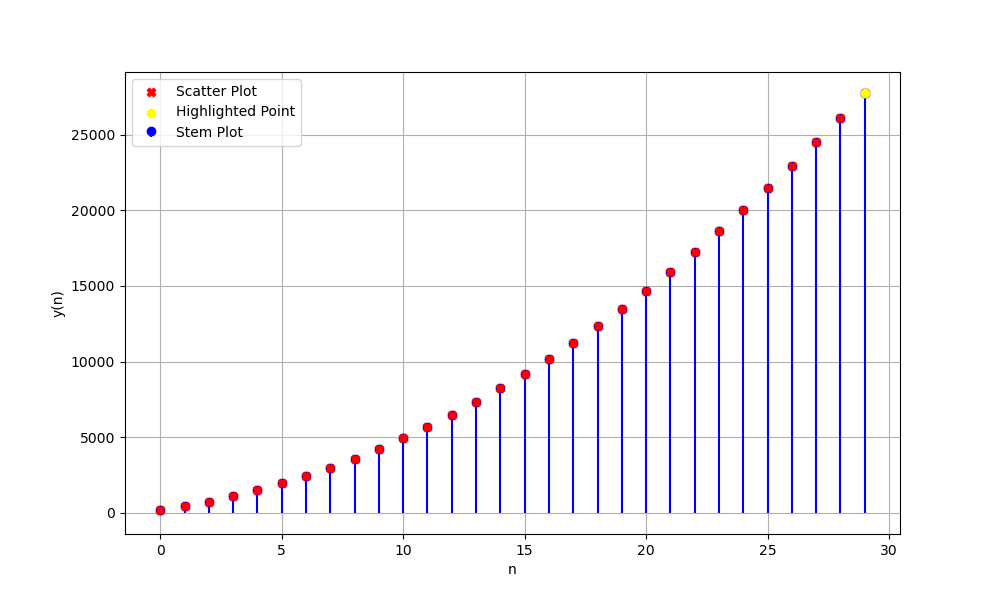
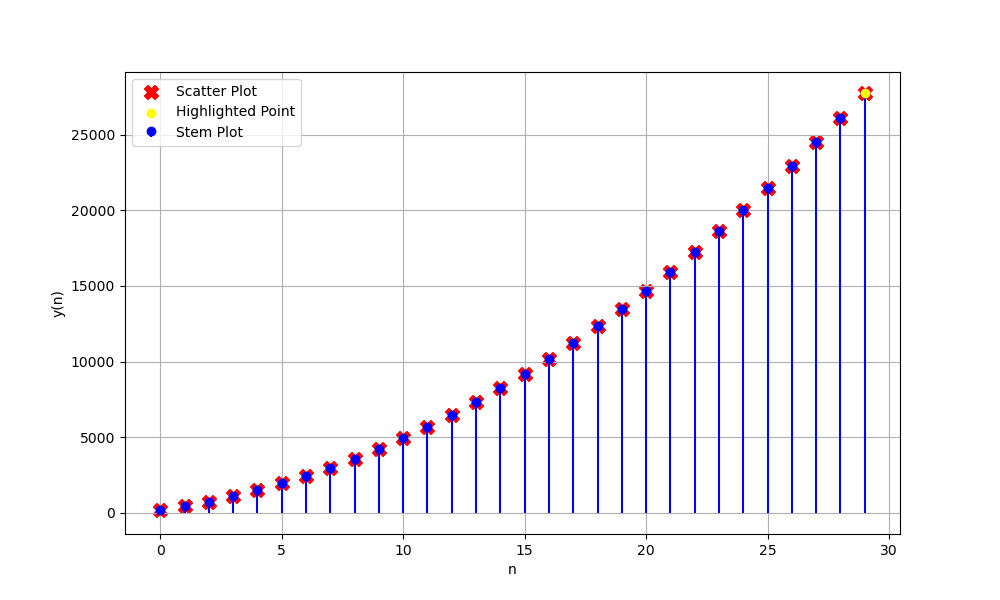
eleventh_upload

diff --git a/assign10_5_3_15/codes/graph1.py b/assign10_5_3_15/codes/graph1.py
@@ -1,41 +1,41 @@
-import matplotlib.pyplot as plt
-
-# Read data from output.txt
-x_stem = []
-y_stem = []
-with open("output.txt", "r") as file:
-    next(file)  # skip header
-    for line in file:
-        n, y = map(float, line.strip().split())
-        x_stem.append(int(n))
-        y_stem.append(y)
-
-# Read data from result_terms.txt
-y_scatter = []
-with open("result_terms.txt", "r") as file:
-    for line in file:
-        y_scatter.append(int(line.strip()))
-
-# Plot both stem plot and scatter plot on a single graph
-plt.figure(figsize=(10, 6))
-
-# Plot stem plot
-plt.stem(x_stem, y_stem, linefmt='b-', markerfmt='bo', basefmt=' ', label='Stem Plot')
-
-# Plot scatter plot
-plt.scatter(range(len(y_scatter)), y_scatter, color='w', marker='X', zorder=5, label='Scatter Plot')
-
-# Highlight y(n) = 27750 with yellow color
-highlight_index = y_stem.index(27750)
-plt.scatter([highlight_index], [27750], color='yellow', zorder=6, label='Highlighted Point')
-
-# Add labels and title
-plt.xlabel('n')
-plt.ylabel('y(n)')
-plt.legend()
-
-# Add grid lines
-plt.grid(True)
-
-# Save the plot as an image file
+import matplotlib.pyplot as plt 
+ 
+# Read data from output.txt 
+x_stem = [] 
+y_stem = [] 
+with open("output.txt", "r") as file: 
+    next(file)  # skip header 
+    for line in file: 
+        n, y = map(float, line.strip().split()) 
+        x_stem.append(int(n)) 
+        y_stem.append(y) 
+ 
+# Read data from result_terms.txt 
+y_scatter = [] 
+with open("result_terms.txt", "r") as file: 
+    for line in file: 
+        y_scatter.append(int(line.strip())) 
+ 
+# Plot both stem plot and scatter plot on a single graph 
+plt.figure(figsize=(10, 6)) 
+ 
+# Plot stem plot 
+plt.stem(x_stem, y_stem, linefmt='b-', markerfmt='bo', basefmt=' ', label='Stem Plot') 
+ 
+# Plot scatter plot 
+plt.scatter(range(len(y_scatter)), y_scatter, color='r', marker='X', s=100, zorder=1, label='Scatter Plot') 
+ 
+# Highlight y(n) = 27750 with yellow color 
+highlight_index = y_stem.index(27750) 
+plt.scatter([highlight_index], [27750], color='yellow', zorder=6, label='Highlighted Point') 
+ 
+# Add labels and title 
+plt.xlabel('n') 
+plt.ylabel('y(n)') 
+plt.legend() 
+ 
+# Add grid lines 
+plt.grid(True) 
+ 
+# Save the plot as an image file 
 plt.savefig("graph.png")
